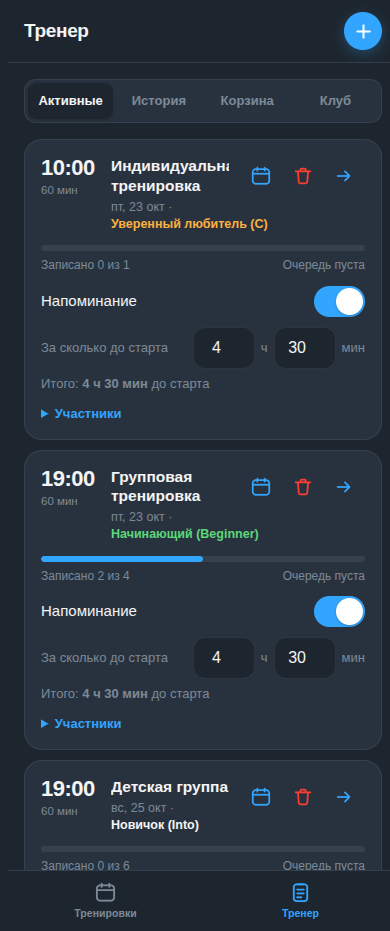
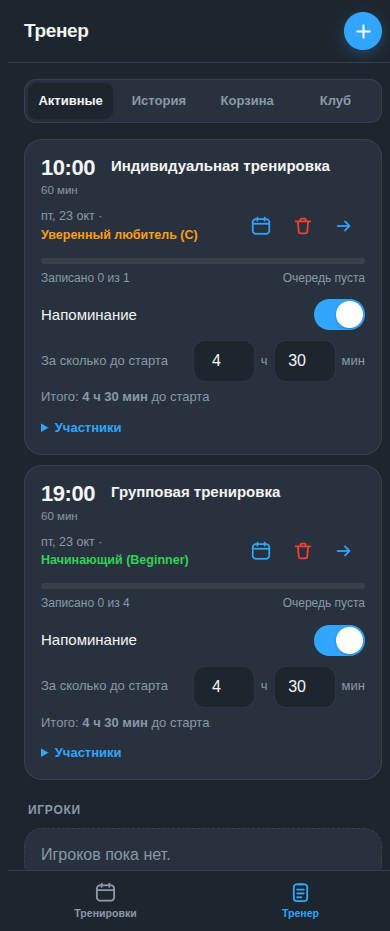
style: polish layout accessibility and README

diff --git a/app/templates/base.html b/app/templates/base.html
@@ -2,10 +2,18 @@
 <html lang="ru">
 <head>
   <meta charset="utf-8">
-  <meta name="viewport" content="width=device-width, initial-scale=1, maximum-scale=1, viewport-fit=cover">
+  <meta name="viewport" content="width=device-width, initial-scale=1, viewport-fit=cover">
   <title>Сквош-тренировки</title>
   <!-- Локальная копия: telegram.org часто недоступен напрямую из РФ. -->
   <script src="/static/telegram-web-app.js"></script>
+  <script>
+    // Тема нужна до отрисовки, чтобы цвета уровней и подсказок не мигали.
+    try {
+      document.documentElement.dataset.theme =
+        (window.Telegram && Telegram.WebApp && Telegram.WebApp.colorScheme) ||
+        (matchMedia('(prefers-color-scheme: dark)').matches ? 'dark' : 'light');
+    } catch (e) { document.documentElement.dataset.theme = 'light'; }
+  </script>
   <style>
     /* ===== Тема из Telegram (автоматически светлая/тёмная) ===== */
     :root {
@@ -30,10 +38,13 @@
     }
     * { box-sizing: border-box; -webkit-tap-highlight-color: transparent; }
     html, body { margin: 0; padding: 0; }
+    html { scroll-padding-top: 64px; }
+    [data-theme="light"] { --hint: #6b6b70; }
+    [data-theme="dark"] { --hint: #8b99a8; }
     body {
       background: var(--bg); color: var(--text);
       font-family: -apple-system, BlinkMacSystemFont, "SF Pro Text", "Segoe UI", Roboto, Helvetica, Arial, sans-serif;
-      font-size: 16px; line-height: 1.38;
+      font-size: 1rem; line-height: 1.45;
       -webkit-font-smoothing: antialiased; text-rendering: optimizeLegibility;
       overscroll-behavior-y: none;
     }
@@ -47,7 +58,7 @@
       border-bottom: 1px solid var(--separator);
       display: flex; align-items: center; justify-content: space-between; gap: 12px;
     }
-    .app-title { font-size: 19px; font-weight: 700; letter-spacing: -.35px; }
+    .app-title { margin: 0; font-size: 19px; font-weight: 700; letter-spacing: -.02em; }
     .app-header__right { display: flex; align-items: center; gap: 8px; }
 
     /* ===== Контент ===== */
@@ -78,9 +89,9 @@
       min-height: 46px; padding: 0 18px; border: 1px solid transparent; border-radius: 12px;
       font: inherit; font-size: 15px; font-weight: 600; cursor: pointer;
       background: var(--secondary); color: var(--link);
-      transition: transform .06s ease, opacity .15s ease, background .15s ease;
+      transition: transform .15s ease-out, opacity .15s ease, background .15s ease;
     }
-    .btn:active { transform: scale(.978); }
+    .btn:active { transform: scale(.96); }
     .btn:disabled { opacity: .5; pointer-events: none; }
     .btn--primary { background: var(--accent); color: var(--accent-text); box-shadow: 0 2px 8px rgba(46,166,255,.22); }
     .btn--danger { background: rgba(255,59,48,.13); color: var(--destructive); }
@@ -88,8 +99,12 @@
     .btn--sm { min-height: 36px; font-size: 13px; border-radius: 9px; padding: 0 11px; }
     .btn > svg { width: 19px; height: 19px; flex: none; }
     .btn:focus-visible, .input:focus-visible, .chip:focus-visible, .tab:focus-visible,
-    .header-action:focus-visible, .icon-btn:focus-visible {
-      outline: 2px solid var(--accent); outline-offset: 2px;
+    .segmented button:focus-visible, .header-action:focus-visible,
+    .icon-btn:focus-visible, summary:focus-visible {
+      outline: 2px solid var(--text); outline-offset: 2px;
+    }
+    .switch input:focus-visible + span {
+      outline: 2px solid var(--text); outline-offset: 2px;
     }
 
     .icon-btn {
@@ -105,9 +120,9 @@
       background: var(--accent); color: var(--accent-text);
       display: flex; align-items: center; justify-content: center; cursor: pointer;
       box-shadow: 0 4px 12px rgba(46,166,255,.28);
-      transition: transform .08s ease, opacity .15s ease;
+      transition: transform .15s ease-out, opacity .15s ease;
     }
-    .header-action:active { transform: scale(.93); }
+    .header-action:active { transform: scale(.96); }
     .header-action svg { width: 21px; height: 21px; }
 
     /* ===== Переключатель ===== */
@@ -148,17 +163,20 @@
     /* ===== Тренировка ===== */
     .t-top { display: flex; gap: 12px; align-items: flex-start; }
     .t-when { flex: none; min-width: 58px; }
-    .t-time { font-size: 22px; font-weight: 800; letter-spacing: -.5px; line-height: 1.1; font-variant-numeric: tabular-nums; }
-    .t-duration { font-size: 11.5px; color: var(--hint); line-height: 1.25; margin-top: 3px; white-space: nowrap; }
+    .t-time { font-size: 22px; font-weight: 800; letter-spacing: -.02em; line-height: 1.1; font-variant-numeric: tabular-nums; }
+    .t-duration { font-size: 12px; color: var(--hint); line-height: 1.25; margin-top: 3px; white-space: nowrap; }
     .t-info { flex: 1; min-width: 0; }
     .t-title {
-      font-weight: 600; font-size: 15.5px; line-height: 1.28;
-      display: -webkit-box; -webkit-line-clamp: 2; -webkit-box-orient: vertical; overflow: hidden;
+      font-weight: 600; font-size: 15px; line-height: 1.3;
+      overflow-wrap: break-word;
     }
     .t-meta { font-size: 12.5px; color: var(--hint); margin-top: 3px; }
+    .t-toolbar { display: flex; align-items: center; justify-content: space-between; gap: 12px; margin-top: 8px; }
+    .t-toolbar .t-meta { margin-top: 0; min-width: 0; }
+    .t-toolbar__actions { display: flex; gap: 2px; flex: none; }
     .t-occ { text-align: right; flex: none; font-variant-numeric: tabular-nums; }
     .t-occ b { font-size: 18px; }
-    .t-occ .lbl { display: block; font-size: 11px; color: var(--hint); }
+    .t-occ .lbl { display: block; font-size: 11.5px; color: var(--hint); }
     .t-people { display: flex; align-items: center; gap: 10px; margin-top: 12px; min-width: 0; }
     .t-names { font-size: 13px; color: var(--hint); overflow: hidden; text-overflow: ellipsis; white-space: nowrap; }
     .t-actions { margin-top: 12px; display: flex; gap: 8px; }
@@ -189,6 +207,7 @@
       transition: border-color .15s ease, box-shadow .15s ease;
     }
     .input:focus { outline: none; border-color: var(--accent); box-shadow: 0 0 0 3px var(--accent-soft); }
+    .input:focus-visible { outline: 2px solid var(--text); outline-offset: 2px; }
     textarea.input { min-height: 86px; padding: 12px 14px; resize: vertical; line-height: 1.4; }
     select.input { padding-right: 34px; }
     .row2 { display: grid; grid-template-columns: 1fr 1fr; gap: 12px; }
@@ -224,10 +243,17 @@
 
     /* ===== Уровни игры: только цвет текста, без заливки ===== */
     .level { font-weight: 700; white-space: nowrap; }
-    .level--orange { color: #ff9f0a; color: color-mix(in srgb, #ff9f0a 78%, var(--text)); }
-    .level--green { color: #30d158; color: color-mix(in srgb, #30d158 78%, var(--text)); }
+    .level--orange { color: #ff9f0a; }
+    .level--green { color: #30d158; }
     .level--white { color: var(--text); }
     .level--muted { color: var(--hint); }
+    [data-theme="light"] .level--orange { color: #a84e00; }
+    [data-theme="light"] .level--green { color: #137a33; }
+    [data-theme="light"] .level--white { color: #111111; }
+    [data-theme="dark"] .badge--success { color: #5ee27f; }
+    [data-theme="dark"] .badge--warn { color: #ffb340; }
+    [data-theme="light"] .badge--success { color: #1f7a3a; }
+    [data-theme="light"] .badge--warn { color: #8a4f00; }
 
     /* ===== Блок тренера в карточке (тап -> написать) ===== */
     .t-coach {
@@ -363,6 +389,11 @@
     @keyframes sk { 0% { background-position: 100% 0; } 100% { background-position: 0 0; } }
     [hidden] { display: none !important; }
 
+    @media (max-width: 420px) {
+      .reminder-offset { align-items: flex-start; flex-wrap: wrap; }
+      .reminder-offset > .hint { flex: 1 0 100%; }
+      .reminder-offset .hm { margin-left: 0; }
+    }
     @media (max-width: 360px) {
       .row2 { grid-template-columns: 1fr; gap: 0; }
       .app-header { padding-left: 14px; padding-right: 14px; }
@@ -371,13 +402,14 @@
     }
     @media (prefers-reduced-motion: reduce) {
       *, *::before, *::after { transition-duration: .01ms !important; animation-duration: .01ms !important; }
+      .btn:active, .header-action:active, .chip:active { transform: none; }
     }
   </style>
 </head>
 <body>
   <div class="app">
     <header class="app-header">
-      <div class="app-title">{% block header %}Сквош{% endblock %}</div>
+      <h1 class="app-title">{% block header %}Сквош{% endblock %}</h1>
       <div class="app-header__right">{% block header_right %}{% endblock %}</div>
     </header>
     <main class="app-main">{% block content %}{% endblock %}</main>
@@ -399,7 +431,7 @@
     </a>
   </nav>
 
-  <div id="toast" class="toast"></div>
+  <div id="toast" class="toast" role="status" aria-live="polite"></div>
 
   <!-- Bottom sheet: добавление в календарь (общий для страниц) -->
   <div class="sheet" id="cal-sheet">
@@ -423,6 +455,14 @@
         tg.enableClosingConfirmation && tg.enableClosingConfirmation();
       } catch (e) { /* старые версии клиента */ }
     }
+
+    function syncTheme() {
+      const scheme = (tg && tg.colorScheme) ||
+        (matchMedia('(prefers-color-scheme: dark)').matches ? 'dark' : 'light');
+      document.documentElement.dataset.theme = scheme;
+    }
+    syncTheme();
+    try { tg && tg.onEvent && tg.onEvent('themeChanged', syncTheme); } catch (e) {}
 
     // initData строго из Telegram Web App.
     const fromTg = tg ? (tg.initData || '') : '';

diff --git a/app/templates/coach.html b/app/templates/coach.html
@@ -11,7 +11,7 @@
 {% block content %}
 <!-- ===== Заявка в тренеры (для обычных пользователей) ===== -->
 <section class="section" id="apply-section" hidden>
-  <div class="section-title">Стать тренером</div>
+  <h2 class="section-title">Стать тренером</h2>
   <div class="card">
     <div id="apply-status" class="hint" style="margin-bottom:12px"></div>
     <label class="field"><span class="label">Расскажите о себе</span>
@@ -38,21 +38,19 @@
 
   <!-- CRM -->
   <section class="section" id="players-section">
-    <div class="section-title">Игроки</div>
+    <h2 class="section-title">Игроки</h2>
     <div id="players"><div class="skeleton skeleton--row"></div></div>
   </section>
 
   <!-- Заявки (администратор/менеджер) -->
   <section class="section" id="applications-section" hidden>
-    <div class="section-title">Заявки в тренеры</div>
-    <div class="card card--compact" id="applications-list">
-      <div class="skeleton skeleton--row"></div>
-    </div>
+    <h2 class="section-title">Заявки в тренеры</h2>
+    <div class="card card--compact" id="applications-list"></div>
   </section>
 
   <!-- Профиль тренера -->
   <section class="section" id="profile-section">
-    <div class="section-title">Профиль тренера</div>
+    <h2 class="section-title">Профиль тренера</h2>
     <div class="card" id="profile-card">
       <div class="coach-row" id="profile-head"><div class="skeleton skeleton--row"></div></div>
       <button class="btn btn--sm btn--block coach-edit" id="profile-edit">Редактировать профиль</button>
@@ -61,7 +59,7 @@
 
   <!-- Тренеры (администратор/менеджер) -->
   <section class="section" id="coaches-section" hidden>
-    <div class="section-title">Тренеры</div>
+    <h2 class="section-title">Тренеры</h2>
     <div class="card card--list" id="coaches-card">
       <div id="coaches-list"><div class="skeleton skeleton--row"></div></div>
     </div>
@@ -107,7 +105,7 @@
       </div>
       <div class="card card--compact reminder-row">
         <span class="reminder-row__text">Напоминание игрокам</span>
-        <label class="switch"><input name="reminder_enabled" type="checkbox" checked><span></span></label>
+        <label class="switch"><input name="reminder_enabled" type="checkbox" aria-label="Напоминание игрокам" checked><span></span></label>
       </div>
       <div class="field">
         <span class="label">За сколько до старта</span>
@@ -309,9 +307,9 @@ function reminderEditor(t) {
   return `
   <div class="inline-row" style="margin-top:12px">
     <span style="font-size:15px">Напоминание</span>
-    <label class="switch"><input type="checkbox" data-remind="${t.id}" ${t.reminder_enabled ? 'checked' : ''}><span></span></label>
+    <label class="switch"><input type="checkbox" data-remind="${t.id}" aria-label="Напоминание о тренировке" ${t.reminder_enabled ? 'checked' : ''}><span></span></label>
   </div>
-  <div class="inline-row" style="margin-top:10px">
+  <div class="inline-row reminder-offset" style="margin-top:10px">
     <span class="hint">За сколько до старта</span>
     <div class="hm">
       <input class="input" style="width:62px;min-height:42px;padding:8px;text-align:center" type="number" min="0" max="48" data-oh="${t.id}" value="${h}"> ч
@@ -342,9 +340,11 @@ function activeRow(t) {
       </div>
       <div class="t-info">
         <div class="t-title">${esc(t.type)}</div>
-        <div class="t-meta">${esc(fmtDay(t.date))}${t.level ? ' · ' + levelPill(t.level) : ''}</div>
       </div>
-      <div style="display:flex;gap:2px">
+    </div>
+    <div class="t-toolbar">
+      <div class="t-meta">${esc(fmtDay(t.date))}${t.level ? ' · ' + levelPill(t.level) : ''}</div>
+      <div class="t-toolbar__actions">
         ${iconBtn(`data-cal="${t.id}"`, 'В календарь', ICON_CAL, 'var(--link)')}
         ${iconBtn(`data-del="${t.id}"`, 'Удалить', ICON_DEL)}
         ${iconBtn(`data-xfer="${t.id}"`, 'Передать', ICON_XFER, 'var(--link)')}
@@ -373,9 +373,11 @@ function historyRow(t) {
       </div>
       <div class="t-info">
         <div class="t-title">${esc(t.type)}</div>
-        <div class="t-meta">${esc(fmtDay(t.date))}${t.level ? ' · ' + levelPill(t.level) : ''}</div>
       </div>
-      <div style="display:flex;gap:2px">
+    </div>
+    <div class="t-toolbar">
+      <div class="t-meta">${esc(fmtDay(t.date))}${t.level ? ' · ' + levelPill(t.level) : ''}</div>
+      <div class="t-toolbar__actions">
         ${iconBtn(`data-cal="${t.id}"`, 'В календарь', ICON_CAL, 'var(--link)')}
         ${iconBtn(`data-del="${t.id}"`, 'В корзину', ICON_DEL)}
       </div>
@@ -734,8 +736,15 @@ async function loadApplications() {
   if (!IS_MANAGER) return;
   try {
     const data = await api('/api/coach/applications');
+    const section = document.getElementById('applications-section');
     const box = document.getElementById('applications-list');
-    box.innerHTML = data.applications.length ? data.applications.map(a => `
+    if (!data.applications.length) {
+      section.hidden = true;
+      box.innerHTML = '';
+      return;
+    }
+    section.hidden = false;
+    box.innerHTML = data.applications.map(a => `
       <div class="p-row" data-atid="${a.telegram_id}">
         ${avatarHtml(a.first_name, a.avatar_url, true)}
         <div style="flex:1;min-width:0">
@@ -747,7 +756,7 @@ async function loadApplications() {
           <button class="btn btn--primary btn--sm" data-approve="${a.telegram_id}">Одобрить</button>
           <button class="btn btn--danger btn--sm" data-reject="${a.telegram_id}">Отклонить</button>
         </div>
-      </div>`).join('') : '<div class="hint" style="padding:4px 0">Новых заявок нет.</div>';
+      </div>`).join('');
   } catch (e) { toast(e.message); }
 }
 document.getElementById('applications-list').addEventListener('click', async (ev) => {
@@ -770,7 +779,7 @@ function coachRow(c) {
   const mgr = c.is_manager && !c.is_owner ? ' <span class="badge badge--level">менеджер</span>' : '';
   const mgrToggle = (IS_OWNER && !c.is_owner)
     ? `<label class="switch" style="transform:scale(.8);transform-origin:right center">
-         <input type="checkbox" data-mgr="${c.telegram_id}" ${c.is_manager ? 'checked' : ''}><span></span></label>`
+         <input type="checkbox" data-mgr="${c.telegram_id}" aria-label="Права менеджера" ${c.is_manager ? 'checked' : ''}><span></span></label>`
     : '';
   const remove = c.is_owner ? ''
     : `<button class="btn btn--danger btn--sm" data-cremove="${c.telegram_id}">Снять</button>`;
@@ -857,9 +866,8 @@ function whenVisible(id, fn) {
     whenVisible('players-section', loadPlayers);
     whenVisible('profile-section', loadProfile);
     if (IS_MANAGER) {
-      document.getElementById('applications-section').hidden = false;
+      loadApplications();
       document.getElementById('coaches-section').hidden = false;
-      whenVisible('applications-section', loadApplications);
       whenVisible('coaches-section', loadCoaches);
     }
   } else {

diff --git a/app/templates/index.html b/app/templates/index.html
@@ -11,7 +11,7 @@
     <div class="profile-card__about" id="me-about" hidden></div>
   </div>
   <label class="switch">
-    <input id="notif-toggle" type="checkbox" disabled>
+    <input id="notif-toggle" type="checkbox" aria-label="Push-уведомления о тренировках" disabled>
     <span></span>
   </label>
 </section>
@@ -44,6 +44,7 @@
     <h2 class="sheet__title">Сообщение тренеру</h2>
     <p class="hint form-note">Уйдёт тренеру в чат с ботом — ответ придёт вам сюда же.</p>
     <textarea class="input" id="msg-text" rows="4" maxlength="1000"
+              aria-label="Сообщение тренеру"
               placeholder="Например: не смогу прийти в субботу, можно перенести?"></textarea>
     <button class="btn btn--primary btn--block" id="msg-send" style="margin-top:12px">Отправить</button>
   </div>
@@ -69,7 +70,7 @@
         <div class="hint">По умолчанию скрыт. Включайте, только если хотите, чтобы тренер видел ваш username.</div>
       </div>
       <label class="switch">
-        <input id="profile-username" type="checkbox">
+        <input id="profile-username" type="checkbox" aria-label="Показывать @username">
         <span></span>
       </label>
     </div>

diff --git a/README.md b/README.md
@@ -3,6 +3,8 @@
 Telegram Mini App для сквош-клуба: расписание, запись в один тап, лист ожидания
 и CRM тренера — без отдельного мобильного приложения.
 
+Python 3.11+ · FastAPI · aiogram 3 · SQLite
+
 ![Python](https://img.shields.io/badge/Python-3.11%2B-3776AB?logo=python&logoColor=white)
 ![FastAPI](https://img.shields.io/badge/FastAPI-0.146-009688?logo=fastapi&logoColor=white)
 ![License](https://img.shields.io/badge/License-MIT-green)
@@ -17,7 +19,7 @@ Telegram Mini App для сквош-клуба: расписание, запис
 - запись на тренировки, лист ожидания FIFO, напоминания и `.ics`;
 - несколько тренеров, роли, заявки и передача занятий;
 - CRM, заметки и личные сообщения через бота;
-- приватность: имя/фото или животное, username только по согласию, без ID в чатах;
+- приватность: имя и фото можно скрыть под животным, username виден только по согласию, Telegram ID не показываются в чатах;
 - история, корзина, экспорт и удаление персональных данных.
 
 ## Быстрый старт
@@ -40,7 +42,7 @@ COACH_TELEGRAM_ID=...
 WEBHOOK_BASE_URL=https://...
 ```
 
-Telegram Web App работает только по HTTPS. Production-деплой:
+Telegram Web App работает только по HTTPS. Продакшен:
 `make install-prod` + systemd + reverse-proxy — см. [`docs/DEPLOY.md`](docs/DEPLOY.md).
 
 ## Документация
